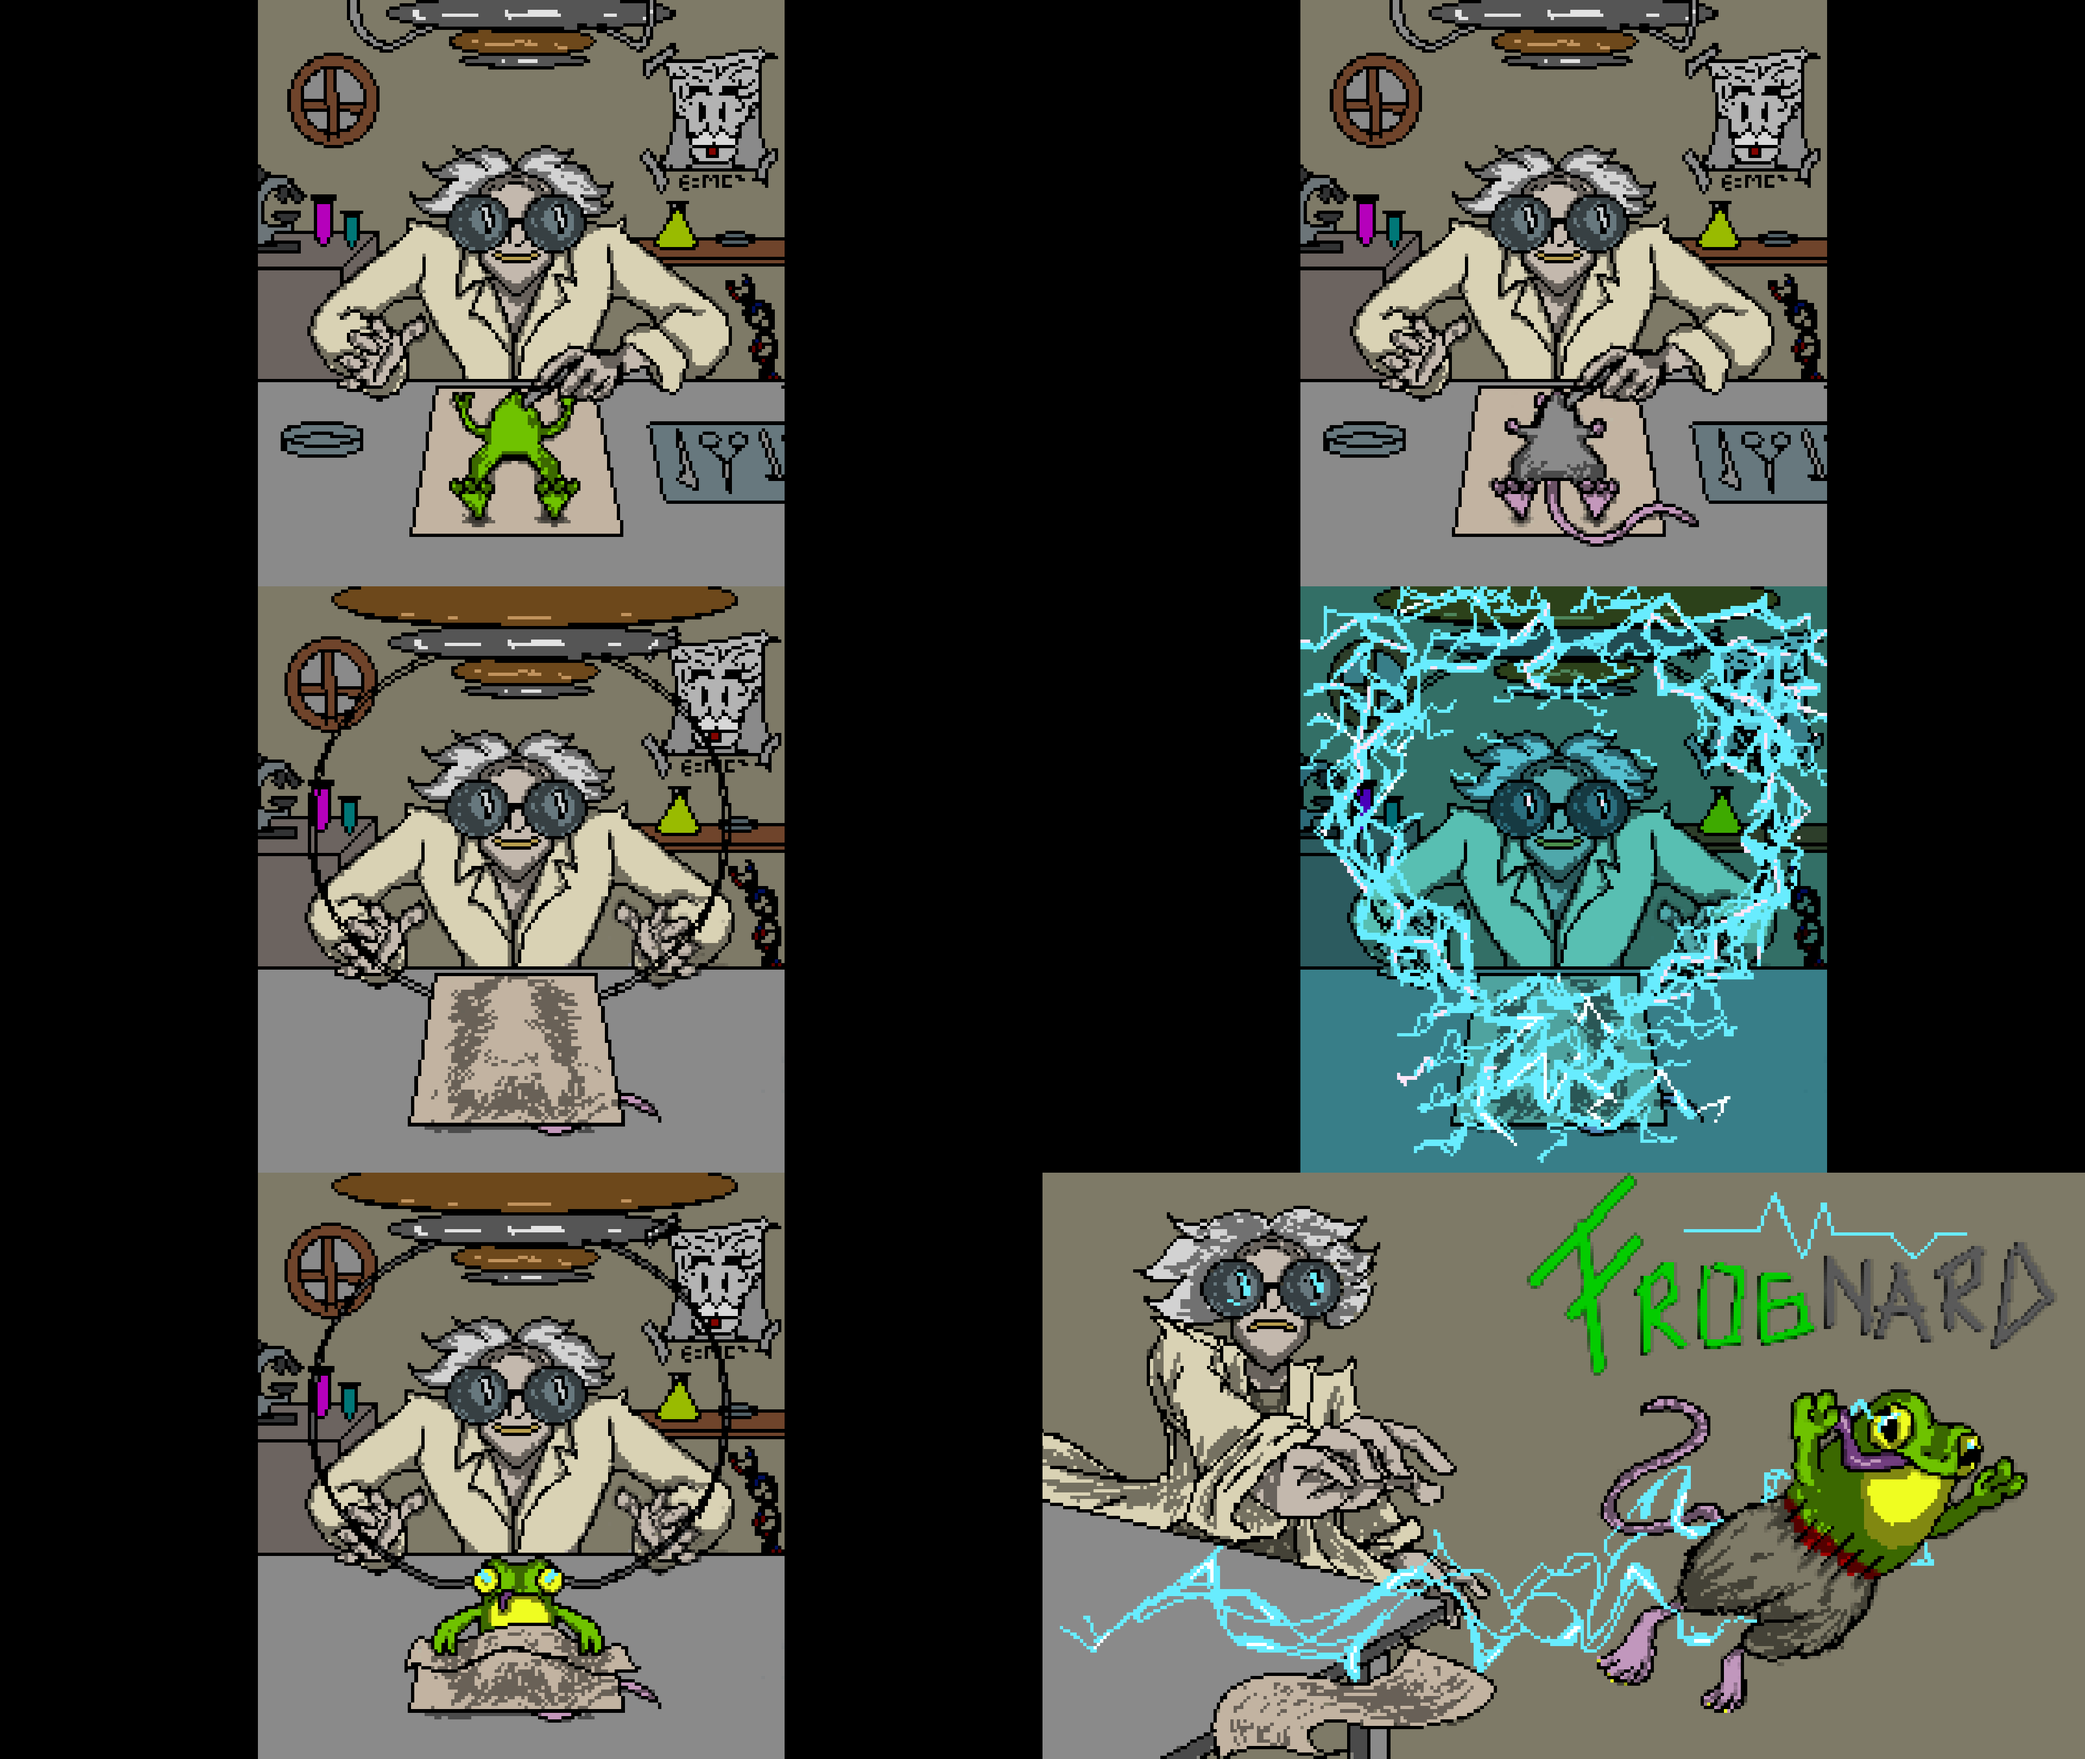
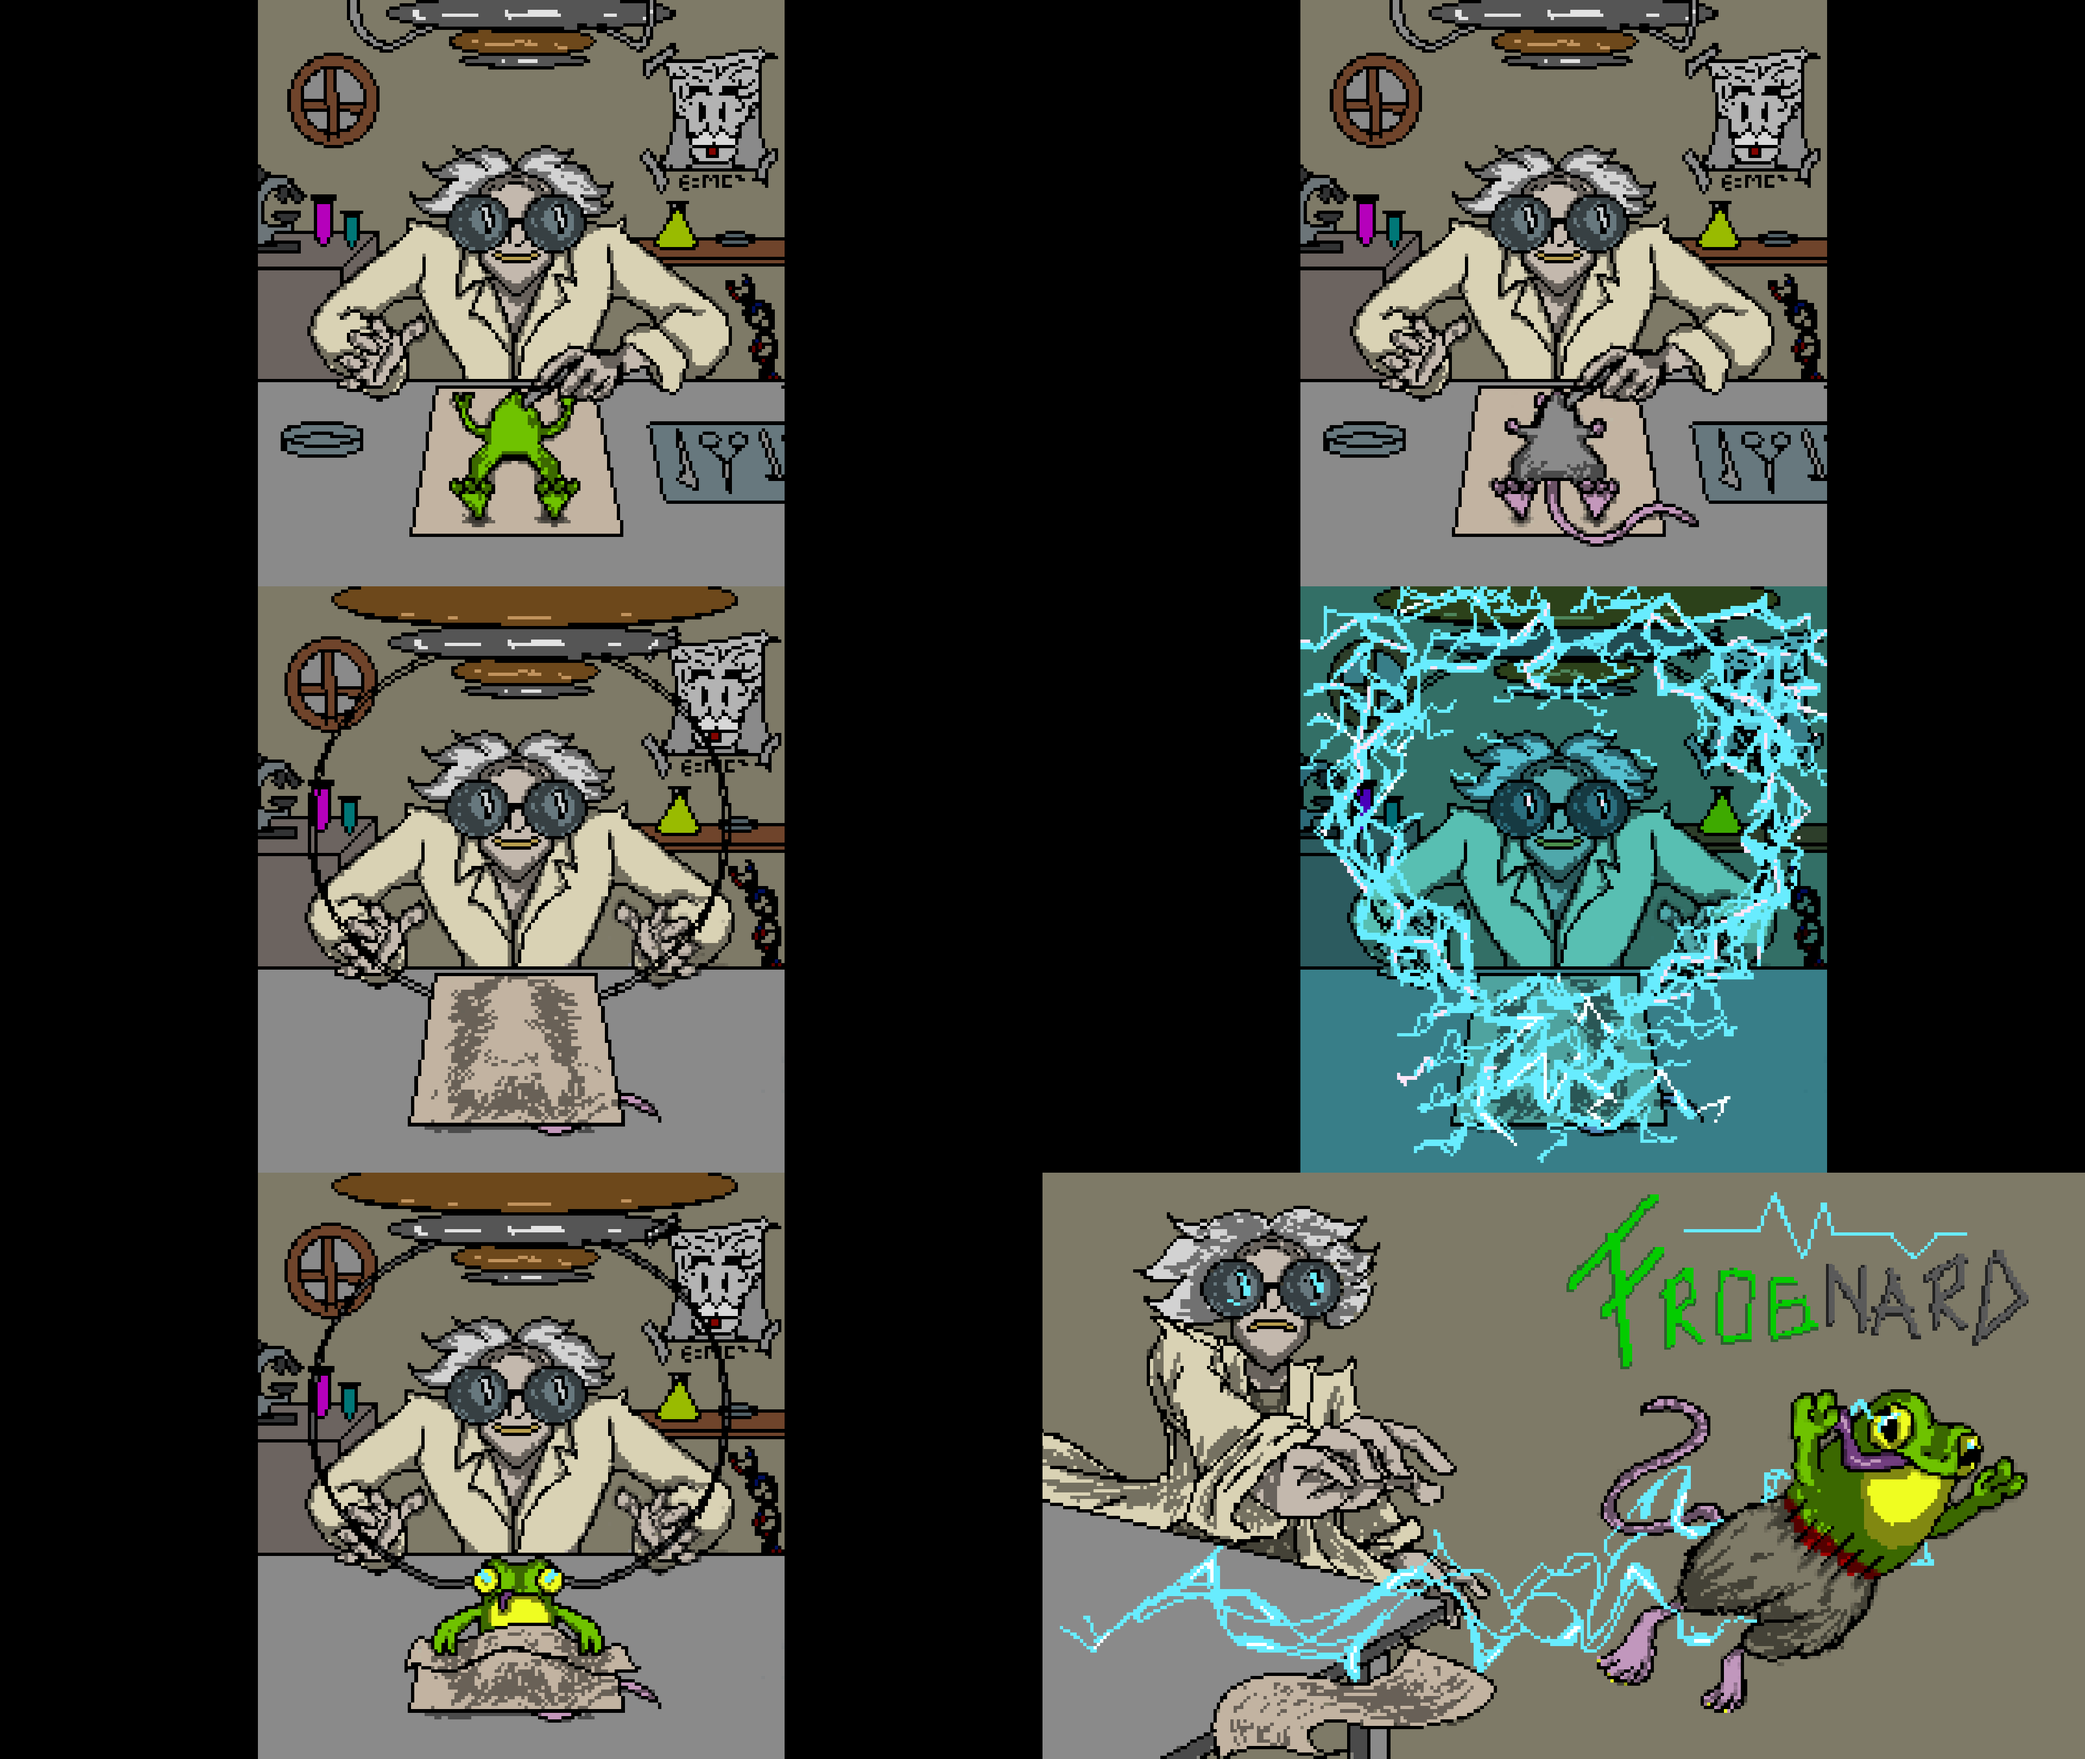
cambios en mainmenu

Changed region(s): [[0.7188, 0.6546, 1.0, 0.7793]]

diff --git a/src/game/scenes/MainMenu.js b/src/game/scenes/MainMenu.js
@@ -8,21 +8,29 @@ export class MainMenu extends Scene
     }
 
     create ()
-    {
+    { 
+        
         this.add.image(480, 270, 'fondo').setDepth(-1)     
-        this.add.image(600/1.3 , 300/2, 'logo');
+        this.add.image(600/1.3 , 300/2, 'logo').setScale(0.5).setDepth(1);
 
         this.cursor = this.input.keyboard.createCursorKeys();
         this.enter = this.input.keyboard.addKey(Phaser.Input.Keyboard.KeyCodes.ENTER);
         this.state = "neutral";
 
+        this.anims.create({
+          key: 'logo_animacion',
+          frames: this.anims.generateFrameNumbers('logoanimacion', { start: 0, end:1 }),
+          frameRate: 4,
+          repeat: 0
+          });
+
         // Posiciones de los textos
-        const coopX = 960/3;
-        const vsX = (960/3)*2;
+        const vsX = 960/3;
+        const coopX = (960/3)*2;
         const textY = 400;
 
         // Agrega los iconos arriba de los textos y guarda las referencias
-        this.frognardIcon = this.add.image(coopX, textY - 40, 'frognard').setOrigin(0.5, 1).setScale(1.5).setDepth(1);
+        this.frognardIcon = this.add.image(coopX, textY - 40, 'frognard').setOrigin(0.5, 1).setScale(2).setDepth(1);
         this.ranaIcon = this.add.image(vsX - 30, textY - 40, 'rana').setOrigin(0.5, 1).setScale(2).setDepth(2);
         this.rataIcon = this.add.image(vsX + 30, textY - 40, 'rata').setOrigin(0.5, 1).setScale(2).setDepth(1);
 
@@ -43,6 +51,10 @@ export class MainMenu extends Scene
             strokeThickness: 8,
             align: 'center'
         }).setOrigin(0.5);
+
+        // fuera del update, como propiedad del scene:
+        this.logoPlayed = false;
+
     }
 
     update () {
@@ -54,16 +66,59 @@ export class MainMenu extends Scene
             this.ranaIcon.setAlpha(0.5);
             this.rataIcon.setAlpha(0.5);
         }
+
+        //reproducir animacion al accionar una opcion
+       // reproducir animación al accionar izquierda o derecha SOLO 1 VEZ
+if (!this.logoPlayed && (this.cursor.left.isDown != this.cursor.right.isDown)) {
+
+    this.logoPlayed = true;   // <- marca que ya ocurrió
+
+    this.add.sprite(600/1.3 , 300/2, 'logoanimacion')
+        .setScale(0.5)
+        .play('logo_animacion')
+        .setDepth(10);
+
+    this.time.delayedCall(100, () => {
+        this.children.each(child => {
+            if (child.texture && child.texture.key === 'logo') {
+                child.destroy();
+            }
+        });
+    });
+
+    // destruir animación del logo después de reproducirse
+    this.time.delayedCall(400, () => {
+        this.children.each(child => {
+            if (child.texture && child.texture.key === 'logoanimacion') {
+                child.destroy();
+            }
+        }); 
+    });
+}
+
+
         // Cambia el estado basado en la entrada del cursor
-        if (this.cursor.right.isDown && this.state != "vs"){
-            this.state = "vs";
-        } else if (this.cursor.left.isDown && this.state != "coop"){
+        if (this.cursor.right.isDown && this.state != "coop"){
             this.state = "coop";
+             //hacer animacion de logo cuando se acciona una opcion
+     
+        
+        } else if (this.cursor.left.isDown && this.state != "vs"){
+            this.state = "vs";
+       
+
+        
+        
         }
         //estado para los assets de la rata y la rana cuando no estan seleccionados 
         if (this.cursor.left.isUp && this.cursor.right.isUp && this.state === "neutral") {
-            this.state = "coop"; // Por defecto, selecciona "coop"
+            this.state = ""; //  cambia a un estado vacío para evitar volver a entrar aquí
         }
+        //hacer animacion de logo cuando se acciona una opcion
+        //this.add.sprite(600/1.3 , 300/2, 'logoanimacion').setScale(0.5).play('logo_animacion').setDepth(20);
+        //destruir logo estatico cuando se reproduce la animacion
+      
+
 
         // Usar una variable para guardar el tamaño actual
         if (!this.vsFontSize) this.vsFontSize = 38;
@@ -105,3 +160,4 @@ export class MainMenu extends Scene
         };
     }
 }
+

diff --git a/src/game/scenes/Preloader.js b/src/game/scenes/Preloader.js
@@ -37,6 +37,9 @@ export class Preloader extends Scene
         this.load.image('logo', 'frognardtitulo.png');
         console.log("logo cargado");
 
+        this.load.spritesheet('logoanimacion', 'logoanim.png', { frameWidth: 960, frameHeight: 540 });
+        console.log("logo animacion cargado");
+
         this.load.image("fondo", "fondo 1.png");
         console.log("fondo cargado");
         
@@ -114,7 +117,7 @@ export class Preloader extends Scene
 
         console.log("--VERSUS CARGADO--");
 
-        this.load.image("frognard", "frognard.png");
+        this.load.image("frognard", "frog64x64.png");
         console.log("frognard cargado");
 
         this.load.spritesheet("frognard caminar", "caminar y apuntar 128x64.png",
